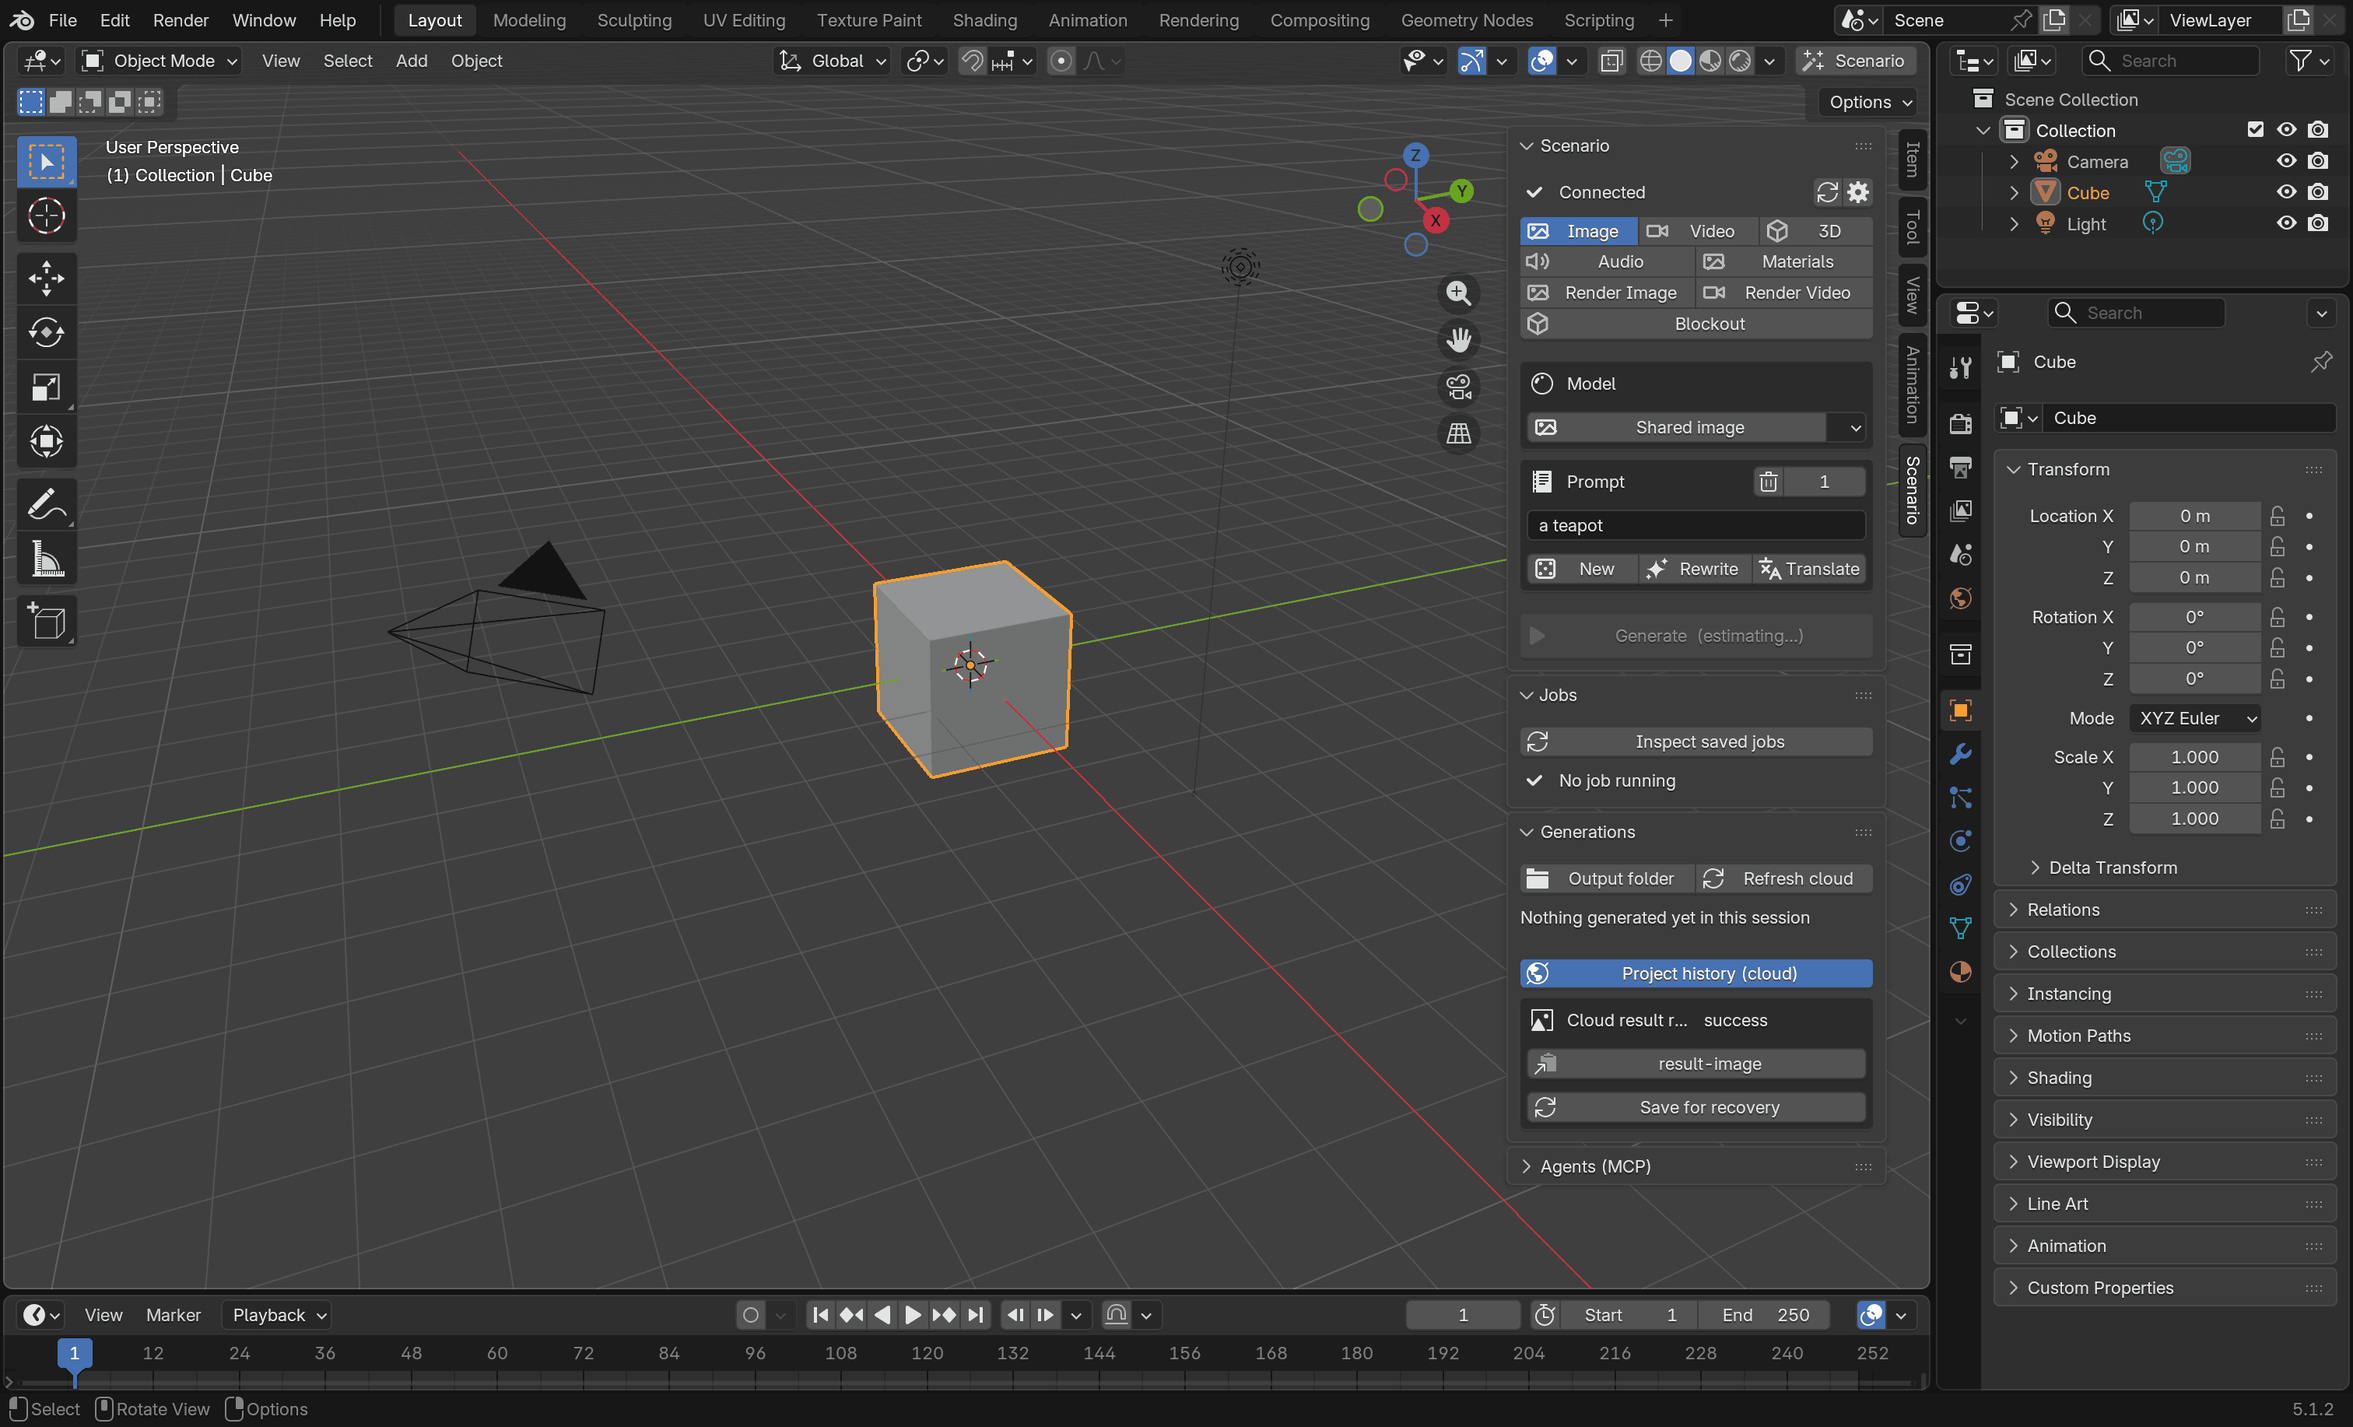
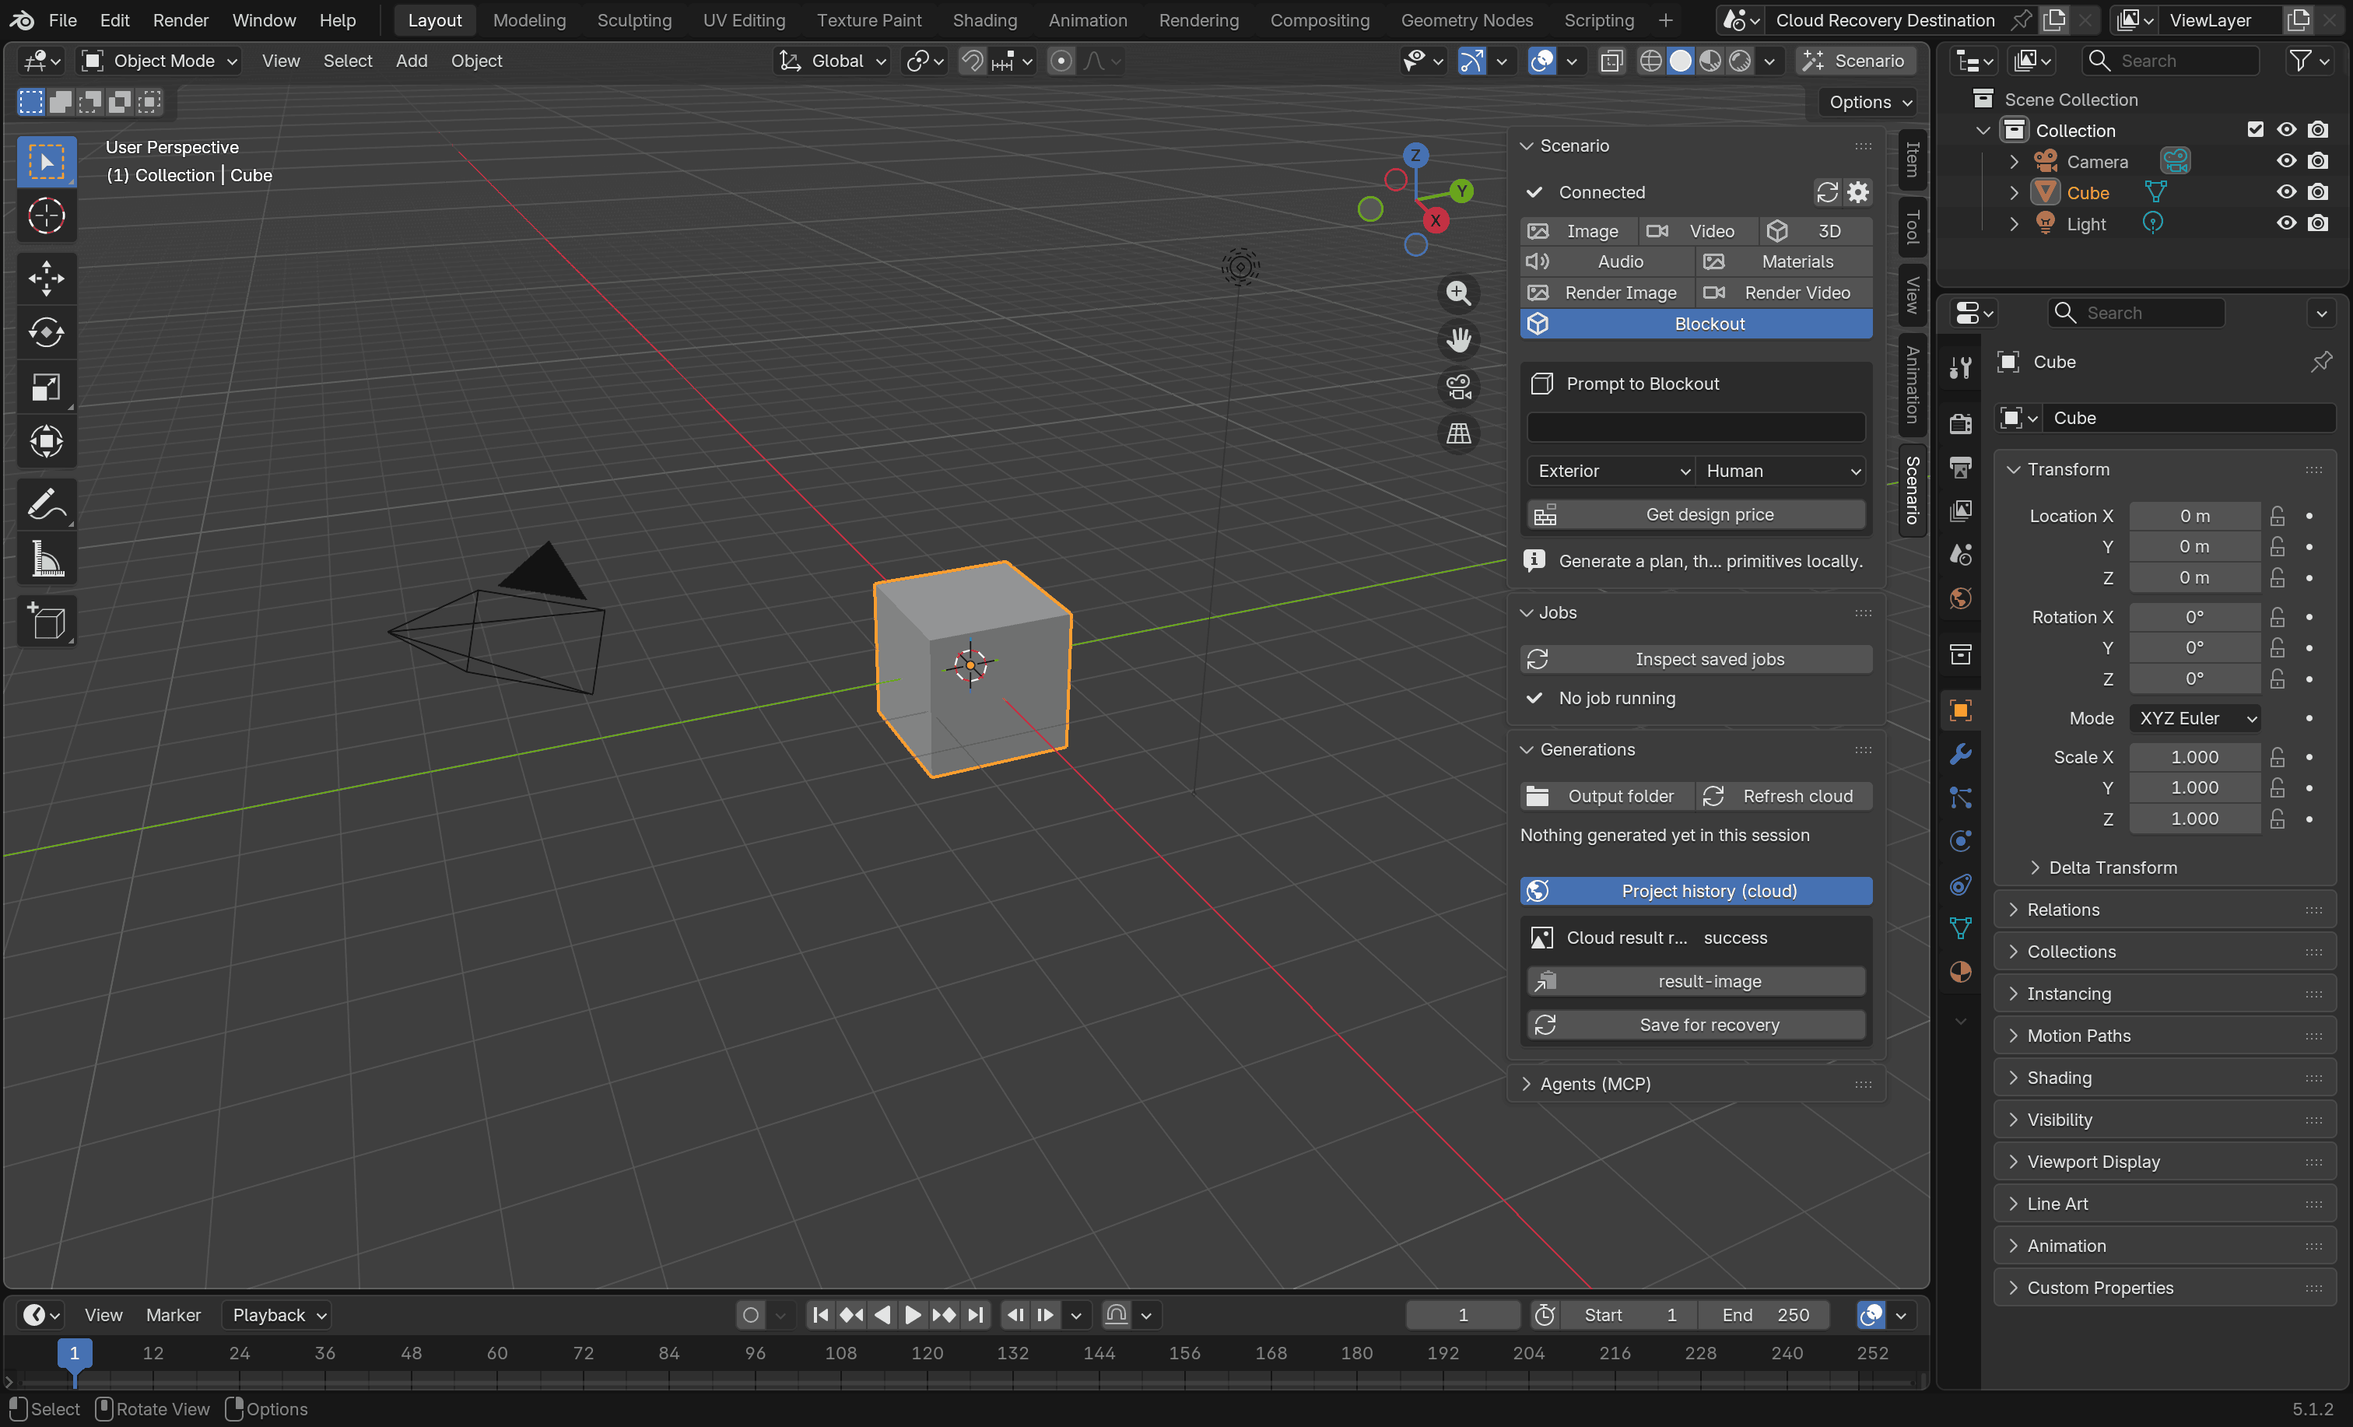
docs(ui): verify native cloud job recovery controls
Record exact-package desktop input, hidden-panel delivery and paused recovery evidence.

Refs #65, #68

diff --git a/docs/UI_STYLE.md b/docs/UI_STYLE.md
@@ -793,19 +793,32 @@ download and destination approval remain separate. A sanitized read error allows
 an explicit retry. Legacy cache rows and files cannot substitute their old
 actions or hide this control. Drawing only inspects the current store/facade.
 
-The screenshot below is an installed macOS arm64 Blender 5.1.2 rendering check
-with synthetic transport, using ZIP SHA-256
[1 lines of base64/hex data omitted]
-The later duplicate-row guard changes no visible layout in this fixture. No job,
-download, submission or scene mutation occurred; the isolated process exited
-cleanly and its normal-profile fingerprint was unchanged. The pending estimate
-label belongs to frozen fixture state and is not a live performance observation.
-
-Native mouse/keyboard input, focus and before/after interaction proof remain
-pending: path-specific computer control returned `cgWindowNotFound`. A generic
-bundle-ID retry was rejected because it could target the normal-profile app.
-An earlier test-only lane enum mistake was corrected before this rendered run.
-The installed functional matrix is recorded in the PR, separately from desktop
-and live-provider acceptance.
+The exact ZIP with SHA-256
[1 lines of base64/hex data omitted]
+passes 760 installed tests on each macOS arm64 Blender 5.0.1, 5.1.2 and 5.2.1.
+Native desktop interaction with that same ZIP passes on macOS arm64 Blender
+5.1.2 in a disposable profile. The fixture preloads one synthetic cloud row and
+uses the real installed SDK adapter with a GET-only mock transport; external
+Python network connections are blocked.
 
 ![Cloud history offers Save for recovery while the scene remains unchanged](images/cloud-history-recovery-controls.png)
+
+Clicking **Save for recovery** starts one job read and disables the pending
+control. Pressing N closes the sidebar while that read is held by the fixture.
+Releasing the synthetic response delivers one paused cloud record with the
+sidebar still closed. Reopening it shows **Resume download**. Repeated
+**Inspect saved jobs** does not alter the record or issue another request.
+The scene's objects and images remain unchanged, with zero downloads or paid
+submissions. A subsequent viewport click selects the light, and Home frames
+the scene, confirming mouse focus and keyboard navigation after recovery.
+
+![Recovered cloud job waits for Resume download without importing any result into the scene](images/cloud-history-recovery-saved.png)
+
+A separate run exercised a sanitized read rejection after selection changed
+while the read was pending; explicit retry saved one paused record without a
+submission or download. Both completed runs exit through harness cleanup, remove
+their disposable profiles and leave the normal profile unchanged. The isolated
+application has a test-only identifier to distinguish its window; the extension
+ZIP is unchanged. These checks establish native recovery controls with synthetic
+responses, not live cloud history, provider latency, completed result application,
+other OS/DPI combinations or integrated release acceptance.

diff --git a/docs/knowledge/docs-architecture-runtime/cloud-history-recovery.md b/docs/knowledge/docs-architecture-runtime/cloud-history-recovery.md
@@ -7,9 +7,9 @@
     "path": "docs/architecture/runtime.md",
     "scope": "cloud-history-recovery",
     "coverage": "source-reviewed",
-    "reviewed_at": "2026-10-04",
+    "reviewed_at": "2026-10-05",
     "base_revision": "4589f22964cc9cf99e53ec37bb8c5dbe6948c96b",
-    "limits": "Native history and MCP share explicit cloud-job adoption, bounded/deduplicated reads, paused saved views and destination approval. Legacy cloud cache files cannot dispatch import or hide recovery controls. Synthetic installed functional tests and a macOS Blender 5.1.2 rendering check; mouse/keyboard/focus interaction remains pending because computer control cannot locate the isolated window. No paid/live provider or integrated release acceptance, no prototype registry migration.",
+    "limits": "Native history and MCP share explicit cloud-job adoption, bounded/deduplicated reads, paused saved views and destination approval. Legacy cache files cannot dispatch import or hide recovery controls. The exact package passes 760 installed tests on each macOS arm64 Blender 5.0.1, 5.1.2 and 5.2.1. Synthetic desktop input on macOS arm64 Blender 5.1.2 proves native save, disabled pending control, delivery after sidebar closure, repeat inspection, explicit retry after a rejected read, viewport selection and Home keyboard framing, with no submission, download or scene content change. External Python sockets are blocked; disposable profiles are removed and the normal profile stays unchanged. No live cloud refresh, provider latency, completed result application, other OS/DPI or integrated release acceptance; no prototype migration.",
     "sources": {
[2 lines of base64/hex data omitted]
@@ -22,7 +22,8 @@
[6 lines of base64/hex data omitted]
     }
   }
 }

diff --git a/docs/knowledge/docs-blender-job-context/cloud-history-recovery.md b/docs/knowledge/docs-blender-job-context/cloud-history-recovery.md
@@ -7,9 +7,9 @@
     "path": "docs/BLENDER_JOB_CONTEXT.md",
     "scope": "cloud-history-recovery",
     "coverage": "source-reviewed",
-    "reviewed_at": "2026-10-04",
+    "reviewed_at": "2026-10-05",
     "base_revision": "4589f22964cc9cf99e53ec37bb8c5dbe6948c96b",
-    "limits": "Native history and MCP share explicit cloud-job adoption, bounded/deduplicated reads, paused saved views and destination approval. Legacy cloud cache files cannot dispatch import or hide recovery controls. Synthetic installed functional tests and a macOS Blender 5.1.2 rendering check; mouse/keyboard/focus interaction remains pending because computer control cannot locate the isolated window. No paid/live provider or integrated release acceptance, no prototype registry migration.",
+    "limits": "Native history and MCP share explicit cloud-job adoption, bounded/deduplicated reads, paused saved views and destination approval. Legacy cache files cannot dispatch import or hide recovery controls. The exact package passes 760 installed tests on each macOS arm64 Blender 5.0.1, 5.1.2 and 5.2.1. Synthetic desktop input on macOS arm64 Blender 5.1.2 proves native save, disabled pending control, delivery after sidebar closure, repeat inspection, explicit retry after a rejected read, viewport selection and Home keyboard framing, with no submission, download or scene content change. External Python sockets are blocked; disposable profiles are removed and the normal profile stays unchanged. No live cloud refresh, provider latency, completed result application, other OS/DPI or integrated release acceptance; no prototype migration.",
     "sources": {
[2 lines of base64/hex data omitted]
@@ -22,7 +22,8 @@
[6 lines of base64/hex data omitted]
     }
   }
 }

diff --git a/docs/knowledge/docs-job-coordinator/cloud-history-recovery.md b/docs/knowledge/docs-job-coordinator/cloud-history-recovery.md
@@ -7,9 +7,9 @@
     "path": "docs/JOB_COORDINATOR.md",
     "scope": "cloud-history-recovery",
     "coverage": "source-reviewed",
-    "reviewed_at": "2026-10-04",
+    "reviewed_at": "2026-10-05",
     "base_revision": "4589f22964cc9cf99e53ec37bb8c5dbe6948c96b",
-    "limits": "Native history and MCP share explicit cloud-job adoption, bounded/deduplicated reads, paused saved views and destination approval. Legacy cloud cache files cannot dispatch import or hide recovery controls. Synthetic installed functional tests and a macOS Blender 5.1.2 rendering check; mouse/keyboard/focus interaction remains pending because computer control cannot locate the isolated window. No paid/live provider or integrated release acceptance, no prototype registry migration.",
+    "limits": "Native history and MCP share explicit cloud-job adoption, bounded/deduplicated reads, paused saved views and destination approval. Legacy cache files cannot dispatch import or hide recovery controls. The exact package passes 760 installed tests on each macOS arm64 Blender 5.0.1, 5.1.2 and 5.2.1. Synthetic desktop input on macOS arm64 Blender 5.1.2 proves native save, disabled pending control, delivery after sidebar closure, repeat inspection, explicit retry after a rejected read, viewport selection and Home keyboard framing, with no submission, download or scene content change. External Python sockets are blocked; disposable profiles are removed and the normal profile stays unchanged. No live cloud refresh, provider latency, completed result application, other OS/DPI or integrated release acceptance; no prototype migration.",
     "sources": {
[2 lines of base64/hex data omitted]
@@ -22,7 +22,8 @@
[6 lines of base64/hex data omitted]
     }
   }
 }

diff --git a/docs/knowledge/docs-user-guide/cloud-history-recovery.md b/docs/knowledge/docs-user-guide/cloud-history-recovery.md
@@ -7,9 +7,9 @@
     "path": "docs/USER_GUIDE.md",
     "scope": "cloud-history-recovery",
     "coverage": "source-reviewed",
-    "reviewed_at": "2026-10-04",
+    "reviewed_at": "2026-10-05",
     "base_revision": "4589f22964cc9cf99e53ec37bb8c5dbe6948c96b",
-    "limits": "Native history and MCP share explicit cloud-job adoption, bounded/deduplicated reads, paused saved views and destination approval. Legacy cloud cache files cannot dispatch import or hide recovery controls. Synthetic installed functional tests and a macOS Blender 5.1.2 rendering check; mouse/keyboard/focus interaction remains pending because computer control cannot locate the isolated window. No paid/live provider or integrated release acceptance, no prototype registry migration.",
+    "limits": "Native history and MCP share explicit cloud-job adoption, bounded/deduplicated reads, paused saved views and destination approval. Legacy cache files cannot dispatch import or hide recovery controls. The exact package passes 760 installed tests on each macOS arm64 Blender 5.0.1, 5.1.2 and 5.2.1. Synthetic desktop input on macOS arm64 Blender 5.1.2 proves native save, disabled pending control, delivery after sidebar closure, repeat inspection, explicit retry after a rejected read, viewport selection and Home keyboard framing, with no submission, download or scene content change. External Python sockets are blocked; disposable profiles are removed and the normal profile stays unchanged. No live cloud refresh, provider latency, completed result application, other OS/DPI or integrated release acceptance; no prototype migration.",
     "sources": {
[2 lines of base64/hex data omitted]
@@ -22,7 +22,8 @@
[6 lines of base64/hex data omitted]
     }
   }
 }

diff --git a/docs/knowledge/docs-ui-style/cloud-history-recovery.md b/docs/knowledge/docs-ui-style/cloud-history-recovery.md
@@ -7,9 +7,9 @@
     "path": "docs/UI_STYLE.md",
     "scope": "cloud-history-recovery",
     "coverage": "source-reviewed",
-    "reviewed_at": "2026-10-04",
+    "reviewed_at": "2026-10-05",
     "base_revision": "4589f22964cc9cf99e53ec37bb8c5dbe6948c96b",
-    "limits": "Native history and MCP share explicit cloud-job adoption, bounded/deduplicated reads, paused saved views and destination approval. Legacy cloud cache files cannot dispatch import or hide recovery controls. Synthetic installed functional tests and a macOS Blender 5.1.2 rendering check; mouse/keyboard/focus interaction remains pending because computer control cannot locate the isolated window. No paid/live provider or integrated release acceptance, no prototype registry migration.",
+    "limits": "Native history and MCP share explicit cloud-job adoption, bounded/deduplicated reads, paused saved views and destination approval. Legacy cache files cannot dispatch import or hide recovery controls. The exact package passes 760 installed tests on each macOS arm64 Blender 5.0.1, 5.1.2 and 5.2.1. Synthetic desktop input on macOS arm64 Blender 5.1.2 proves native save, disabled pending control, delivery after sidebar closure, repeat inspection, explicit retry after a rejected read, viewport selection and Home keyboard framing, with no submission, download or scene content change. External Python sockets are blocked; disposable profiles are removed and the normal profile stays unchanged. No live cloud refresh, provider latency, completed result application, other OS/DPI or integrated release acceptance; no prototype migration.",
     "sources": {
[2 lines of base64/hex data omitted]
@@ -22,7 +22,8 @@
[6 lines of base64/hex data omitted]
     }
   }
 }

diff --git a/docs/knowledge/docs-mcp/cloud-history-recovery.md b/docs/knowledge/docs-mcp/cloud-history-recovery.md
@@ -7,9 +7,9 @@
     "path": "docs/MCP.md",
     "scope": "cloud-history-recovery",
     "coverage": "source-reviewed",
-    "reviewed_at": "2026-10-04",
+    "reviewed_at": "2026-10-05",
     "base_revision": "4589f22964cc9cf99e53ec37bb8c5dbe6948c96b",
-    "limits": "Native history and MCP share explicit cloud-job adoption, bounded/deduplicated reads, paused saved views and destination approval. Legacy cloud cache files cannot dispatch import or hide recovery controls. Synthetic installed functional tests and a macOS Blender 5.1.2 rendering check; mouse/keyboard/focus interaction remains pending because computer control cannot locate the isolated window. No paid/live provider or integrated release acceptance, no prototype registry migration.",
+    "limits": "Native history and MCP share explicit cloud-job adoption, bounded/deduplicated reads, paused saved views and destination approval. Legacy cache files cannot dispatch import or hide recovery controls. The exact package passes 760 installed tests on each macOS arm64 Blender 5.0.1, 5.1.2 and 5.2.1. Synthetic desktop input on macOS arm64 Blender 5.1.2 proves native save, disabled pending control, delivery after sidebar closure, repeat inspection, explicit retry after a rejected read, viewport selection and Home keyboard framing, with no submission, download or scene content change. External Python sockets are blocked; disposable profiles are removed and the normal profile stays unchanged. No live cloud refresh, provider latency, completed result application, other OS/DPI or integrated release acceptance; no prototype migration.",
     "sources": {
[2 lines of base64/hex data omitted]
@@ -22,7 +22,8 @@
[6 lines of base64/hex data omitted]
     }
   }
 }
